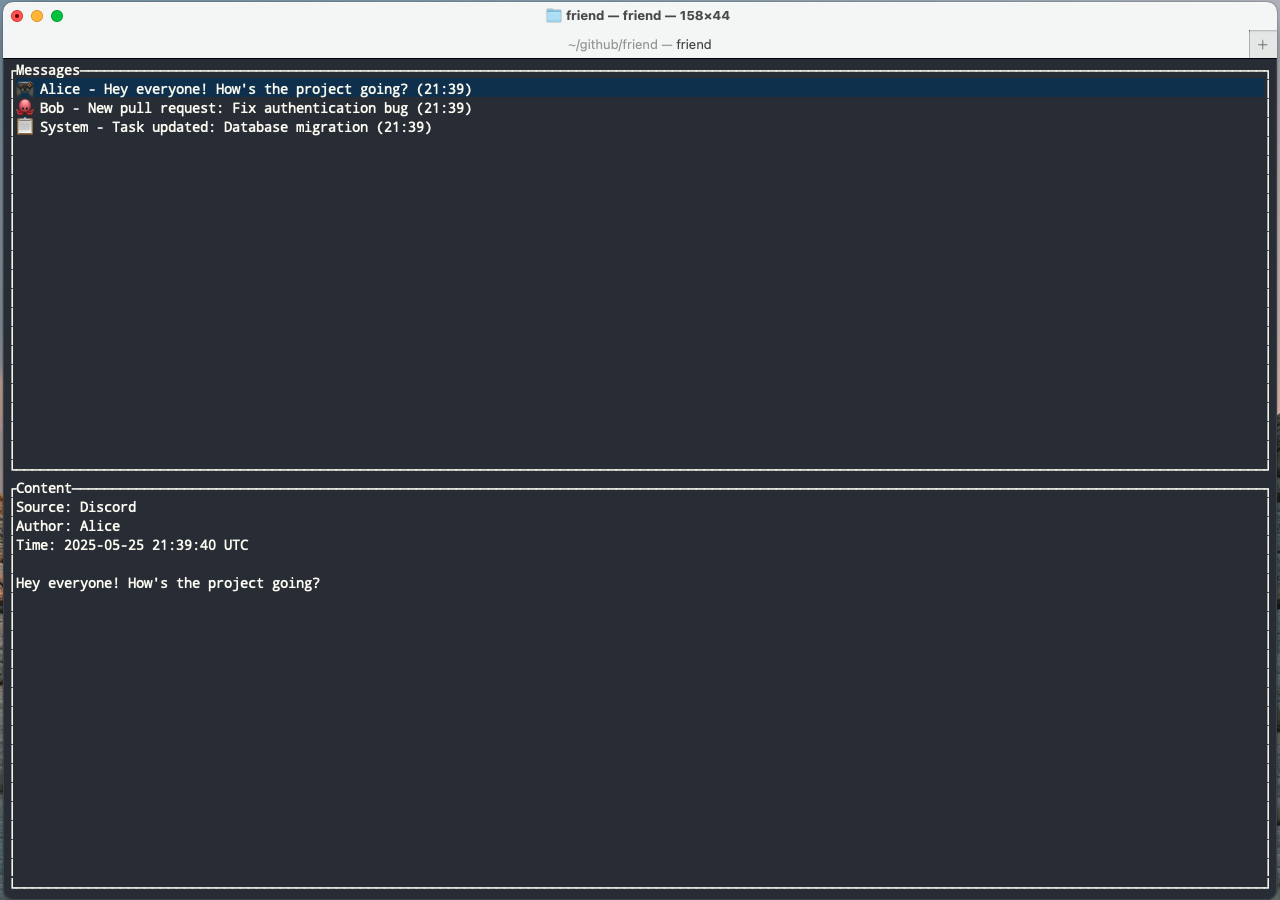
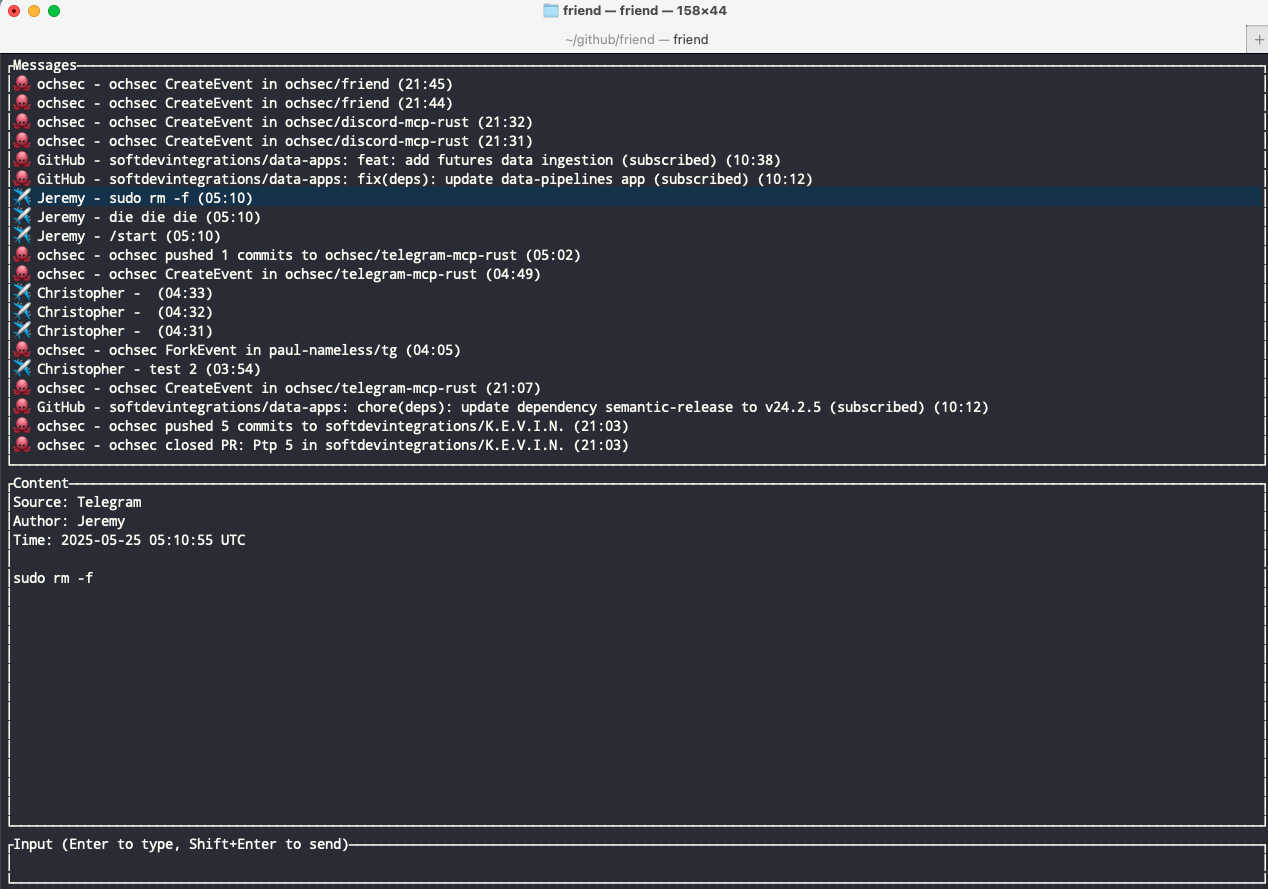
show messages in rev chrono order

Changed region(s): [[0.0, 0.0, 1.0, 1.0]]

diff --git a/src/main.rs b/src/main.rs
@@ -62,6 +62,7 @@ struct App {
     input_mode: bool,
     input_text: String,
     last_refresh: Instant,
+    message_limit: usize,
 }
 
 impl App {
@@ -120,7 +121,7 @@ impl App {
         }
 
         // Fetch initial messages from all providers
-        let messages = integration_manager.fetch_all_messages(None).await;
+        let messages = integration_manager.fetch_all_messages(None, Some(config.message_limit)).await;
         let selected_message = if messages.is_empty() { None } else { Some(0) };
 
         Ok(App {
@@ -130,11 +131,12 @@ impl App {
             input_mode: false,
             input_text: String::new(),
             last_refresh: Instant::now(),
+            message_limit: config.message_limit,
         })
     }
     
     async fn refresh_messages(&mut self) -> Result<(), Box<dyn std::error::Error + Send + Sync>> {
-        self.messages = self.integration_manager.fetch_all_messages(None).await;
+        self.messages = self.integration_manager.fetch_all_messages(None, Some(self.message_limit)).await;
         if self.messages.is_empty() {
             self.selected_message = None;
         } else if self.selected_message.is_none() {

diff --git a/src/integrations/mod.rs b/src/integrations/mod.rs
@@ -31,7 +31,7 @@ impl IntegrationManager {
         self.providers.push(provider);
     }
 
-    pub async fn fetch_all_messages(&self, since: Option<DateTime<Utc>>) -> Vec<Message> {
+    pub async fn fetch_all_messages(&self, since: Option<DateTime<Utc>>, limit: Option<usize>) -> Vec<Message> {
         let mut all_messages = Vec::new();
         
         for provider in &self.providers {
@@ -40,7 +40,13 @@ impl IntegrationManager {
             }
         }
         
-        all_messages.sort_by(|a, b| a.timestamp.cmp(&b.timestamp));
+        all_messages.sort_by(|a, b| b.timestamp.cmp(&a.timestamp)); // Newest first
+        
+        // Apply limit if specified
+        if let Some(limit) = limit {
+            all_messages.truncate(limit);
+        }
+        
         all_messages
     }
 }

diff --git a/src/config.rs b/src/config.rs
@@ -6,6 +6,7 @@ pub struct Config {
     pub discord: Option<DiscordConfig>,
     pub github: Option<GitHubConfig>,
     pub jira: Option<JiraConfig>,
+    pub message_limit: usize,
 }
 
 #[derive(Debug, Clone)]
@@ -110,11 +111,17 @@ impl Config {
             None
         };
 
+        let message_limit = env::var("MESSAGE_LIMIT")
+            .ok()
+            .and_then(|s| s.parse::<usize>().ok())
+            .unwrap_or(100); // Default to 100 messages
+
         Ok(Config {
             telegram,
             discord,
             github,
             jira,
+            message_limit,
         })
     }
 

diff --git a/src/integrations/github.rs b/src/integrations/github.rs
@@ -123,7 +123,7 @@ impl MessageProvider for GitHubProvider {
             }
         }
         
-        all_messages.sort_by(|a, b| b.timestamp.cmp(&a.timestamp));
+        all_messages.sort_by(|a, b| b.timestamp.cmp(&a.timestamp)); // Already newest first - keep it
         Ok(all_messages)
     }
 

diff --git a/src/integrations/telegram.rs b/src/integrations/telegram.rs
@@ -224,7 +224,7 @@ impl MessageProvider for TelegramProvider {
             }
         }
         
-        messages.sort_by(|a, b| a.timestamp.cmp(&b.timestamp));
+        messages.sort_by(|a, b| b.timestamp.cmp(&a.timestamp)); // Newest first
         Ok(messages)
     }
 

diff --git a/src/integrations/discord.rs b/src/integrations/discord.rs
@@ -106,6 +106,7 @@ impl MessageProvider for DiscordProvider {
             }
         }
         
+        messages.sort_by(|a, b| b.timestamp.cmp(&a.timestamp)); // Newest first
         Ok(messages)
     }
 
